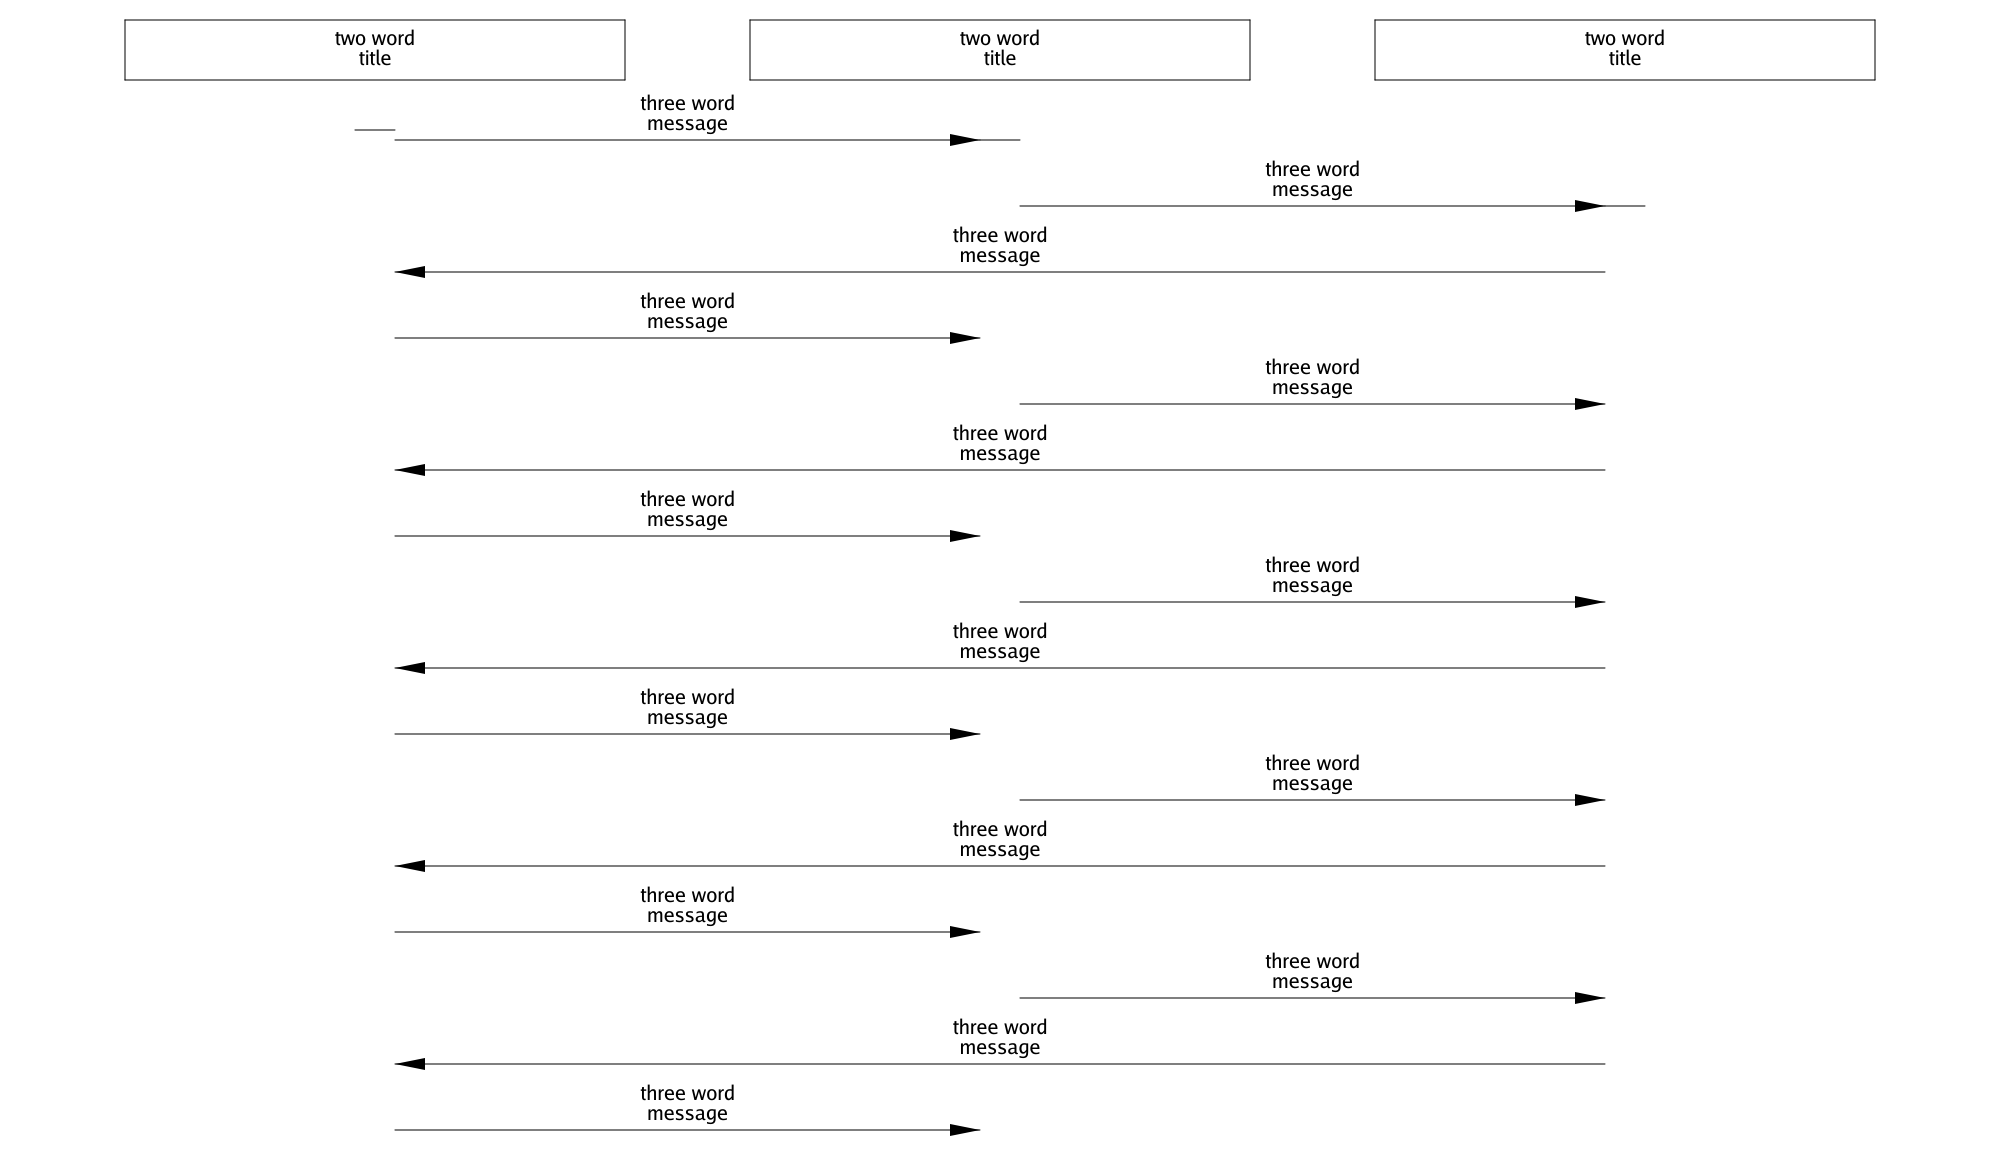
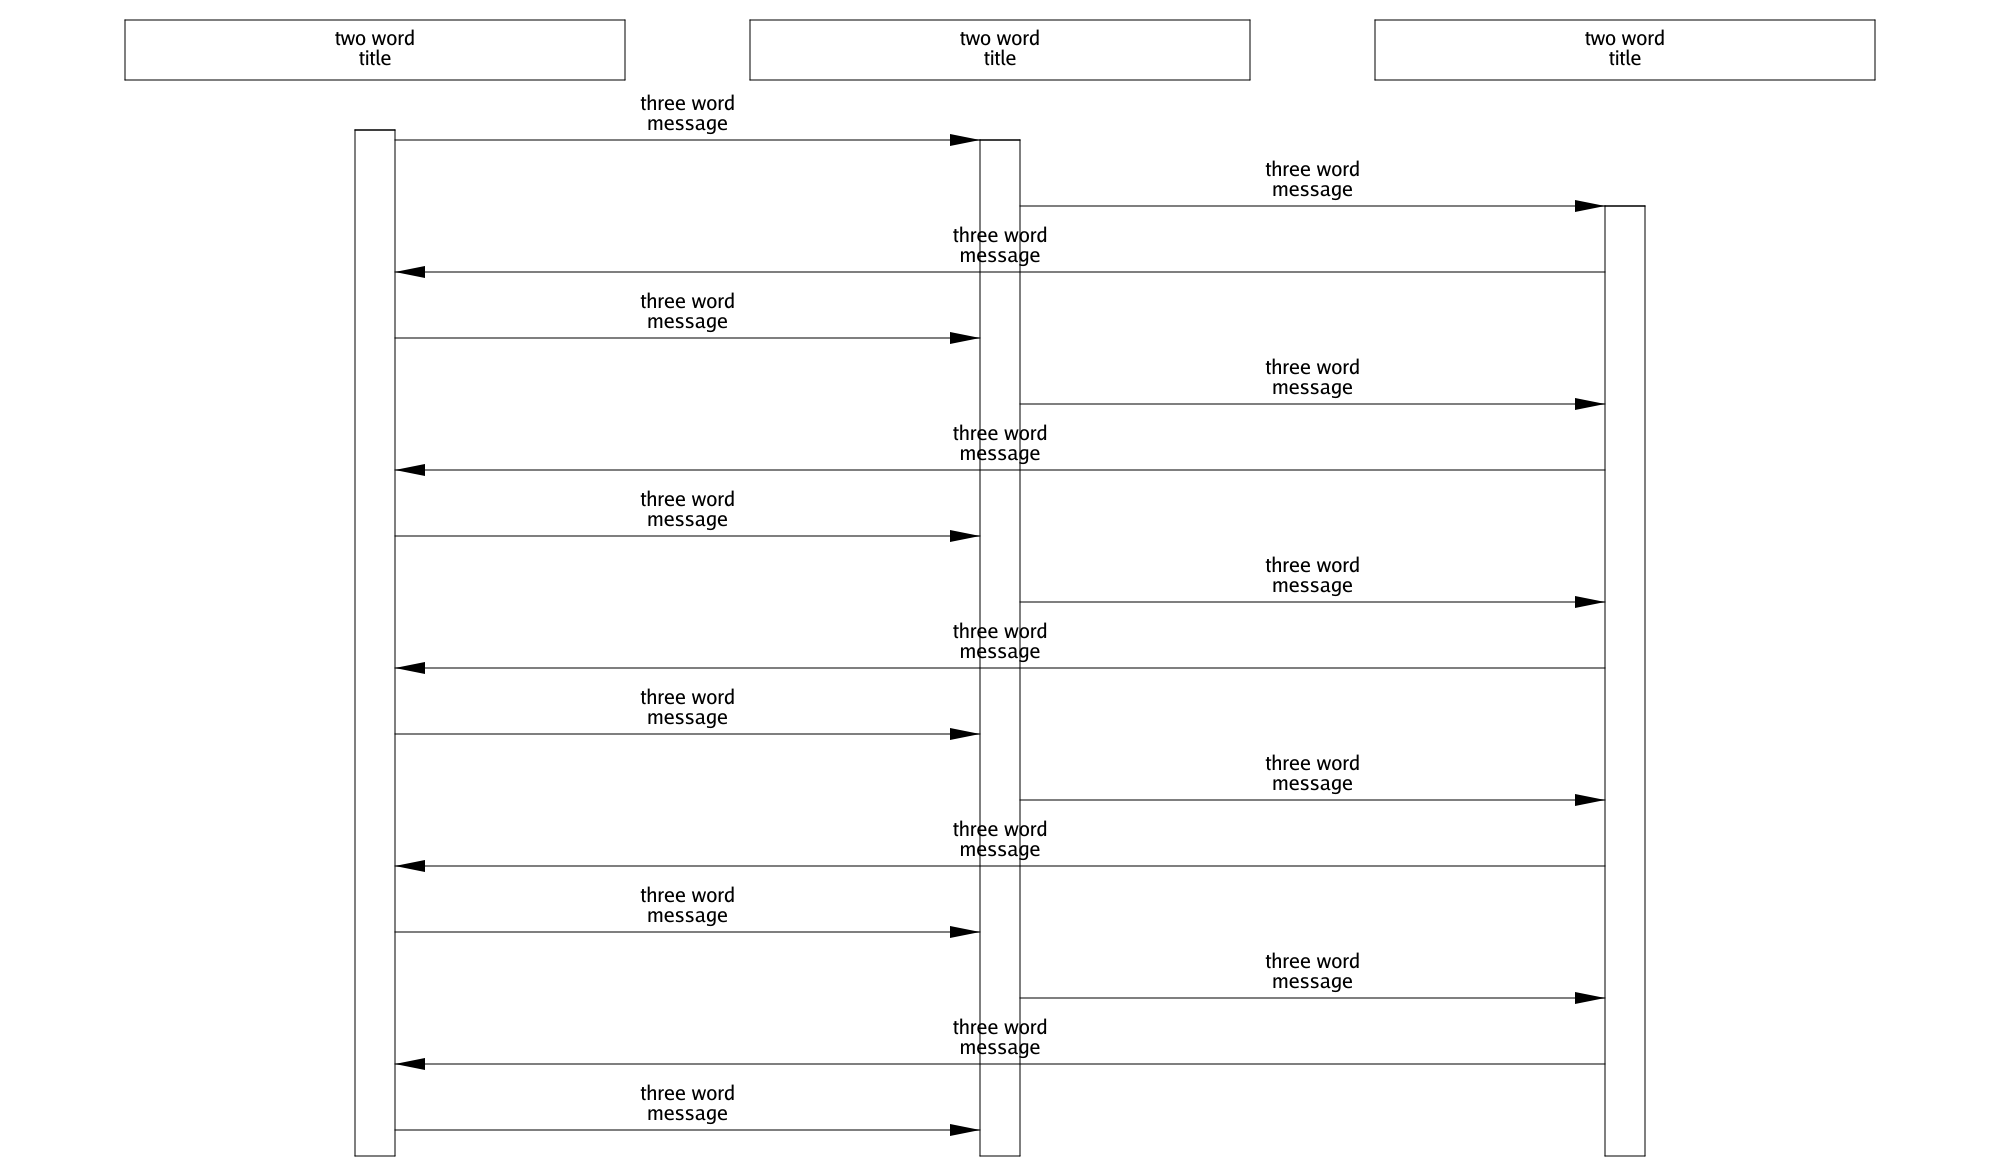
Create activity boxes on lifelines (WIP)

diff --git a/diag/creator.go b/diag/creator.go
@@ -12,32 +12,38 @@ Creator is the top level type for the diag package and provides the API
 to create diagrams.
 */
 type Creator struct {
-	width              int
-	fontHeight         float64
-	allStatements      []*dslmodel.Statement
+	// Width of the diagram required - in virtual pixels.
+	width int
+	// Font height is used as the root for all sizing decisions.
+	fontHeight float64
+	// Parsed DSL script.
+	allStatements []*dslmodel.Statement
+	// The statements representing lifelines - isolated.
 	lifelineStatements []*dslmodel.Statement
-	boxState           *BoxState
-	graphicsModel      *graphics.Model
-	sizer              *sizers.Sizer
-	tideMark           float64 // Gradually moves down the page during creation.
+	// Keeps track of activity boxes in progress.
+	allBoxStates allBoxStates
+	// The output.
+	graphicsModel *graphics.Model
+	// Knows how to size everything.
+	sizer *sizers.Sizer
+	// Gradually moves down the page during creation.
+	tideMark float64
 }
 
 /*
-NewCreator provides a Creator ready to use.  All the layout and sizing
-decisions are derived from the diagram width and fontHeight parameters (in
-pixels), while the required height is calculated automatially.
+NewCreator provides a Creator ready to use.
 */
 func NewCreator(width int, fontHeight float64,
 	allStatements []*dslmodel.Statement) *Creator {
 	lifelineStatements := isolateLifelines(allStatements)
-	boxState := NewBoxState(lifelineStatements)
+	allBoxStates := newAllBoxStates(lifelineStatements)
 	sizer := sizers.NewSizer(width, fontHeight, lifelineStatements)
 	creator := &Creator{
 		width:              width,
 		fontHeight:         fontHeight,
 		allStatements:      allStatements,
 		lifelineStatements: lifelineStatements,
-		boxState:           boxState,
+		allBoxStates:       allBoxStates,
 		sizer:              sizer,
 	}
 	return creator
@@ -48,11 +54,12 @@ Create is the main API method which work out what the diagram should look
 like. It orchestrates a multi-pass creation process.
 */
 func (c *Creator) Create() *graphics.Model {
-	diagHeight := 0 // Set later.
+	diagHeight := 0 // Set later to accomodate contents once known.
 	c.graphicsModel = graphics.NewModel(
 		c.width, diagHeight, c.fontHeight,
 		c.sizer.DashLineDashLen, c.sizer.DashLineDashGap)
 	c.createFirstPass()
+	c.finalizeActivityBoxes()
 	c.finalizeDiagramHeight()
 	return c.graphicsModel
 }
@@ -278,7 +285,7 @@ with its label (which has already been emitted).
 */
 func (c *Creator) potentiallyStartFromBox(
 	statement *dslmodel.Statement) (prims *graphics.Primitives) {
-	behindTidemarkDelta := c.sizer.ActivityBoxTopPadB
+	behindTidemarkDelta := c.sizer.ActivityBoxVerticalOverlap
 	return c.potentiallyStartActivityBox(statement.ReferencedLanes[0],
 		behindTidemarkDelta)
 }
@@ -290,7 +297,7 @@ func (c *Creator) potentiallyStartActivityBox(
 	prims *graphics.Primitives) {
 	prims = graphics.NewPrimitives()
 	// Already a box in progress?
-	if c.boxState.boxIsInProgress(lifeline) {
+	if c.allBoxStates[lifeline].inProgress {
 		return prims
 	}
 	left := c.sizer.Lanes.Individual[lifeline].ActivityBoxLeft
@@ -298,6 +305,24 @@ func (c *Creator) potentiallyStartActivityBox(
 	// Render potentially **behind** the tidemark.
 	y := c.tideMark - behindTidemarkDelta
 	prims.AddLine(left, y, right, y, false)
-	c.boxState.boxesInProgress[lifeline] = true
+	c.allBoxStates[lifeline].inProgress = true
+	c.allBoxStates[lifeline].topY = y
 	return prims
+}
+
+// finalizeActivityBoxes identifies lifeline activity boxes that
+// have been started, but not *stopped*, and draws them now that
+// their size and position can be determined.
+func (c *Creator) finalizeActivityBoxes() {
+	bottom := c.tideMark + c.sizer.ActivityBoxVerticalOverlap
+	for lifeline, boxState := range c.allBoxStates {
+		if !boxState.inProgress {
+			continue
+		}
+		top := boxState.topY
+		left := c.sizer.Lanes.Individual[lifeline].ActivityBoxLeft
+		right := c.sizer.Lanes.Individual[lifeline].ActivityBoxRight
+		c.graphicsModel.Primitives.AddRect(left, top, right, bottom)
+	}
+	c.tideMark = bottom
 }

diff --git a/diag/boxstate.go b/diag/boxstate.go
@@ -1,46 +1,33 @@
 package diag
 
 import (
-	"fmt"
-
 	"github.com/peterhoward42/umli/dslmodel"
 )
 
-/*
-BoxState keeps track of the Lifeline Activity Boxes during the
-drawing element creation process as it works through the DSL statements
-and works down the page.
-*/
-type BoxState struct {
-	// Boxes are said to be in progress when the interaction that
-	// implies their existence has been encountered, but no trigger
-	// has yet been encountered to terminate it. The map is keyed
-	// on the Lifeline Statements.
-	boxesInProgress map[*dslmodel.Statement]bool
+// Type boxState keeps track of the in-progress state of a lifeline
+// activity box (for one lifeline) during diagram creation.
+type boxState struct {
+	inProgress bool
+	topY float64
 }
 
-// NewBoxState provides a BoxState ready to use.
-func NewBoxState(lifelineStatements []*dslmodel.Statement) *BoxState {
-	b := &BoxState{
-		boxesInProgress: map[*dslmodel.Statement]bool{},
+// newBoxState provides a boxState ready to use.
+func newBoxState(lifelineStatement *dslmodel.Statement) *boxState {
+	return &boxState{
+		inProgress: false,
 	}
-	// for debugging
-	fmt.Printf("XXXX registering statements in BoxState:\n")
-	for _, statement := range lifelineStatements {
-		fmt.Printf("XXXX %p\n", statement)
-		b.boxesInProgress[statement] = false
-	}
-	return b
 }
 
-// boxIsInProgress yields if a lifeline activity box is in progress
-// for the given lifelineStatement
-func (bs *BoxState) boxIsInProgress(
-	lifelineStatement *dslmodel.Statement) bool {
-	fmt.Printf("XXXX boxIsInProgress() test: %p\n", lifelineStatement)
-	inProgress, ok := bs.boxesInProgress[lifelineStatement]
-	if !ok {
-		return false
+// Type allBoxStates maps lifeline statements to a
+// boxState.
+type allBoxStates map[*dslmodel.Statement]*boxState
+
+// NewLifelineActivityBoxes creates a lifelineActivityBoxes ready to use.
+func newAllBoxStates(
+	lifelineStatements []*dslmodel.Statement) allBoxStates {
+	boxes := allBoxStates{}
+	for _, lifelineStatement := range lifelineStatements {
+		boxes[lifelineStatement] = newBoxState(lifelineStatement)
 	}
-	return inProgress
+	return boxes
 }

diff --git a/sizer/sizer.go b/sizer/sizer.go
@@ -23,17 +23,17 @@ import (
 
 // Sizer is the top level sizing component.
 type Sizer struct {
-	DiagramPadT             float64
-	DiagramPadB             float64
-	Lanes                   *Lanes
-	InteractionLinePadB     float64
-	InteractionLineTextPadB float64
-	ArrowLen                float64
-	ArrowHeight             float64
-	DashLineDashLen         float64
-	DashLineDashGap         float64
-	SelfLoopHeight          float64
-	ActivityBoxTopPadB      float64
+	DiagramPadT                float64
+	DiagramPadB                float64
+	Lanes                      *Lanes
+	InteractionLinePadB        float64
+	InteractionLineTextPadB    float64
+	ArrowLen                   float64
+	ArrowHeight                float64
+	DashLineDashLen            float64
+	DashLineDashGap            float64
+	SelfLoopHeight             float64
+	ActivityBoxVerticalOverlap float64
 }
 
 // NewSizer provides a Sizer structure that has been initialised
@@ -51,7 +51,7 @@ func NewSizer(diagramWidth int, fontHeight float64,
 	sizer.DashLineDashLen = dashLineDashLenK * fontHeight
 	sizer.DashLineDashGap = dashLineDashGapK * fontHeight
 	sizer.SelfLoopHeight = sizer.Lanes.SelfLoopWidth * selfLoopAspectRatio
-	sizer.ActivityBoxTopPadB = activityBoxTopPadBK * fontHeight
+	sizer.ActivityBoxVerticalOverlap = activityBoxVerticalOverlapK * fontHeight
 
 	return sizer
 }

diff --git a/sizer/settings.go b/sizer/settings.go
@@ -33,6 +33,6 @@ const (
 	selfLoopAspectRatio = 0.6 // Width ratio to height of the three lines
 
 	// Lifeline activity boxes
-	activityBoxWidthK   = 2.0
-	activityBoxTopPadBK = 0.5
+	activityBoxWidthK           = 2.0
+	activityBoxVerticalOverlapK = 0.5
 )
